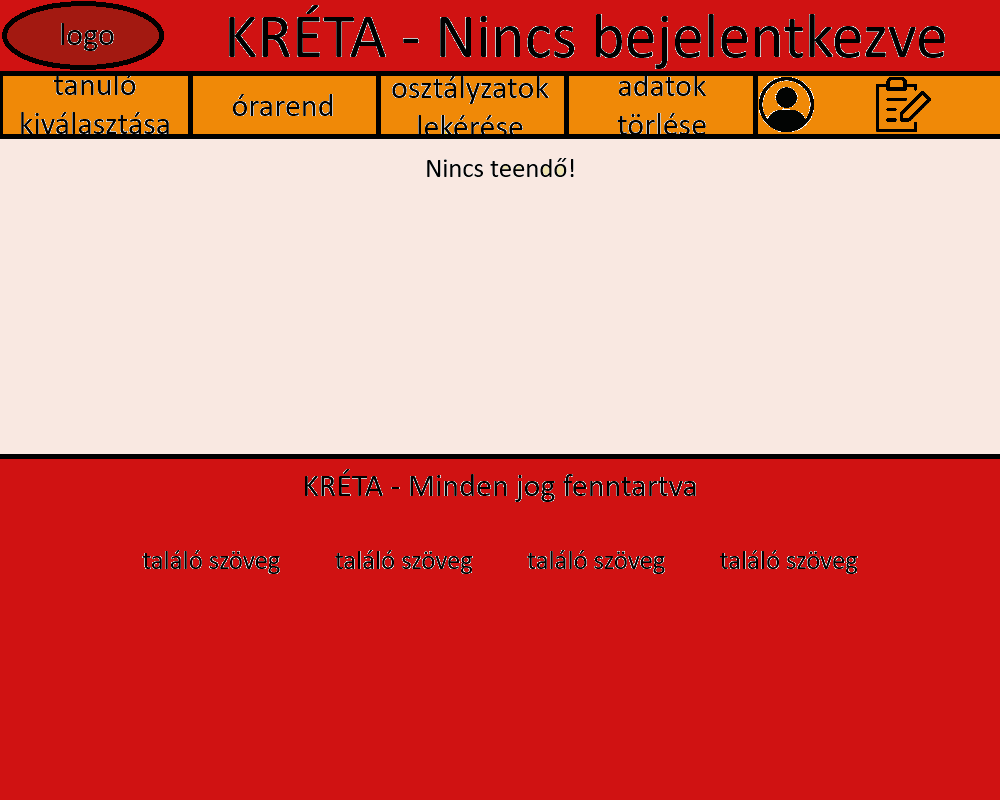
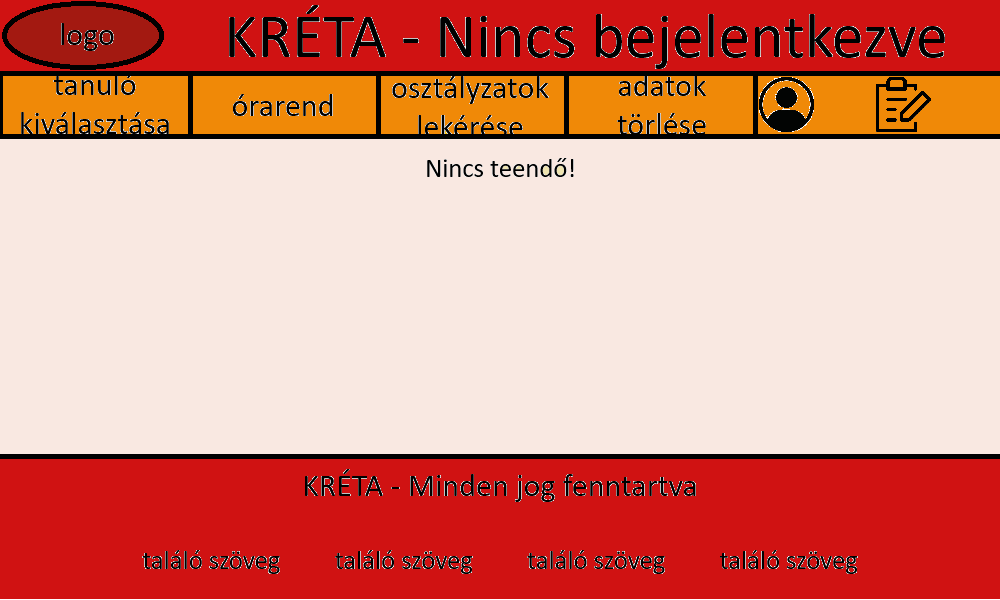
Ver X.

diff --git a/fooldal_i.html b/fooldal_i.html
@@ -1,0 +1,49 @@
+<!DOCTYPE html>
+<html lang="hu">
+
+<head>
+    <meta charset="UTF-8">
+    <meta name="viewport" content="width=device-width, initial-scale=1.0">
+
+    <title>TÁBLA - Regisztrációs felület</title>
+
+    <link rel="stylesheet" href="./fooldal_stilus.css">
+    <link rel="icon" type="image/x-icon" href="./kepek/favicon.png">
+    <script src="./orarend.js" defer></script>
+</head>
+
+<body>
+    <header>
+        <div class="keret_fejlec">
+            <img src="./kepek/logo.png" alt="A TÁBLA logója." title="TÁBLA - Regisztrációs felület" id="logo">
+        </div>
+
+        <div class="keret_fejlec">
+            <h1 title="Tanár vagy diák regisztrálása az oldalra." class="qm">TÁBLA - Regisztrációs felület</h1>
+        </div>
+    </header>
+
+    <nav class="marquee">
+        <div class="marquee_keret">
+            <span class="marquee_szoveg">Üdvözöljük a regisztrációs felületen! - Regisztráljon fiókot!</span>
+            <span class="marquee_szoveg">Üdvözöljük a regisztrációs felületen! - Regisztráljon fiókot!</span>
+        </div>
+    </nav>
+
+    <main id="parent"></main>
+
+    <footer>
+        <div class="keret_lablec">
+            <h1>TÁBLA - Nem kell hozzá kréta!</h1>
+        </div>
+        
+        <div class="keret_lablec">
+            <p title="Education System Hungary" class="qm">edu.system 2026.</p>
+        </div>
+        
+        <div class="keret_lablec">
+            <p title="Hivatalos gyártótól származó, védett weboldal." class="qm">Minden jog fenntartva! ©</p>
+        </div>
+    </footer>
+</body>
+</html>

diff --git a/fooldal_stilus.css b/fooldal_stilus.css
@@ -15,7 +15,7 @@ header, nav, main, footer {
     height: auto;
 }
 
-.keret_fejlec, .keret_fo, .keret_navigacio, .keret_lablec, .keret_tulajdonsagok, #cim {
+.keret_fejlec, .keret_fo, .keret_navigacio, .keret_lablec, .keret_tulajdonsagok, .marquee_keret, #cim {
     height: auto;
     margin: auto;
 }
@@ -63,7 +63,7 @@ h2 {
     margin: 2.5rem 0;
 }
 
-p {
+p, .marquee_keret {
     font-size: 24px;
     text-align: center;
     letter-spacing: 1px;
@@ -165,6 +165,23 @@ hr {
     transition: .125s;
 }
 
+.marquee {
+    overflow: hidden;
+    white-space: nowrap;
+}
+
+.marquee_keret {
+    display: block;
+    overflow: hidden;
+    white-space: nowrap;
+    animation: marquee 5s linear infinite;
+}
+
+.marquee_szoveg {
+    float: left;
+    width: 50%;
+}
+
 #logo {
     width: 250px;
 }
@@ -184,4 +201,14 @@ hr {
 
 .qm:hover, #logo:hover {
     cursor: help;
+}
+
+@keyframes marquee {
+    from {
+        transform: translateX(0%);
+    }
+
+    to {
+        transform: translateX(-100%);
+    }
 }